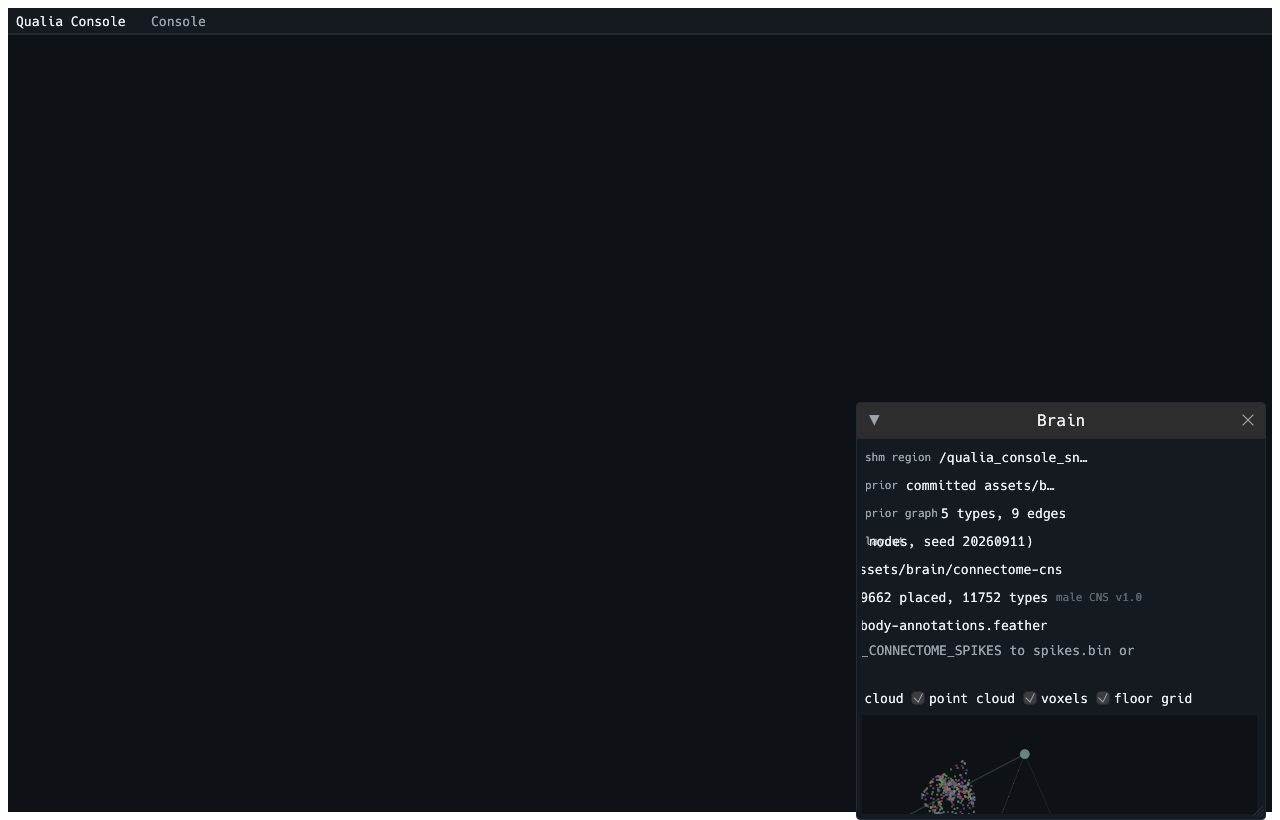
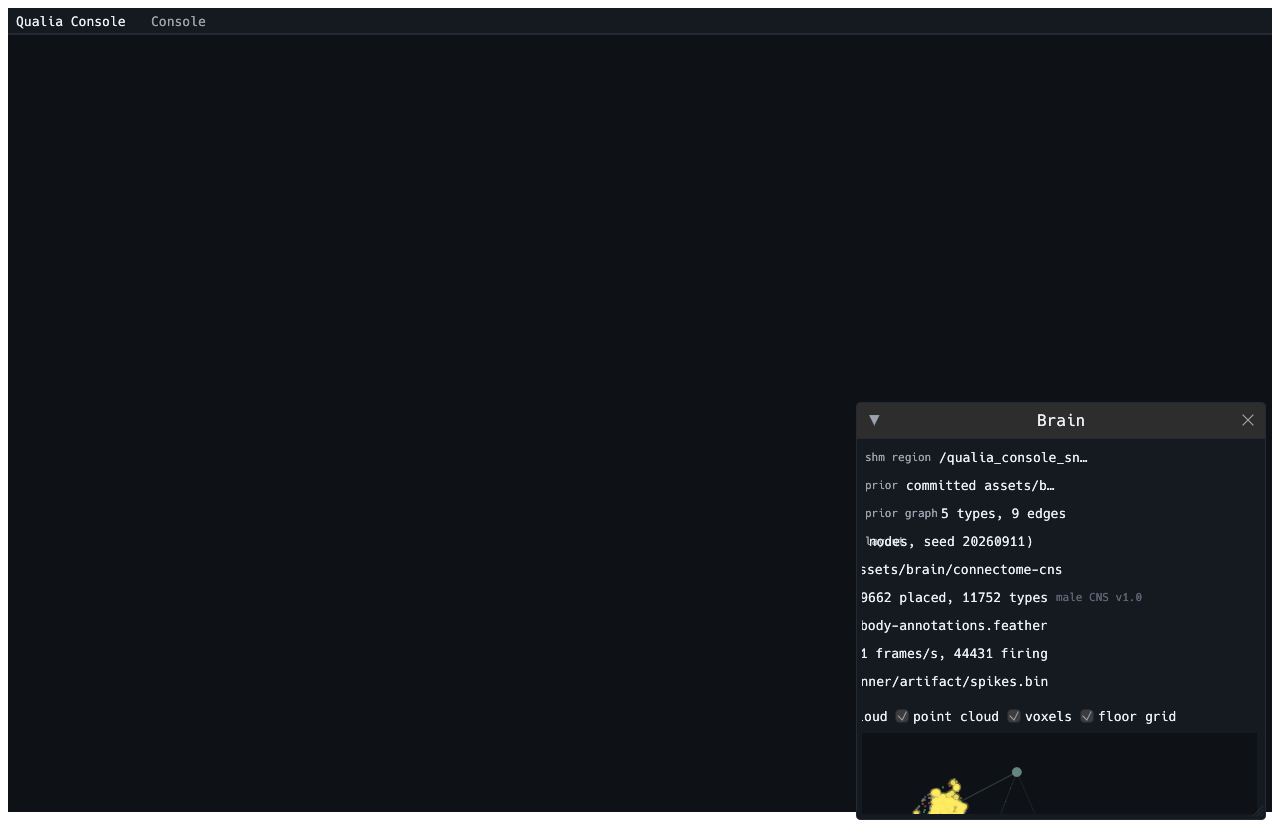
feat(console): draw the runner's real firing set on the cloud (#237)
The panel's firing layer now strided rather than takes the first ids: the frames
arrive sorted by node index, so a plain take highlighted one corner of the brain.
With the stride the layer drew 3325-3730 firing nodes of the tick's 19223-64135,
spread over the cloud, plus a halo so a spike reads as a spike.

Evidence refreshed with T55's real run (spikes.bin 40,199,848 B, 200 frames,
10,048,960 ids, the robot's camera through the leash's snapshot endpoint at
112.7 ticks/s): docs/evidence/T56/floating-brain/console-brain-panel.png shows
the panel with that stream loaded; console-brain-panel-no-stream.png keeps the
committed snapshot (what CI renders). The README carries the tick counts, the
drawn counts, the id range and the producer's caveat about the weak drive.

Also aligns qualia-connectome-view with the console in reading the importer's
manifest spelling, so both report the same source table.

Changed region(s): [[0.6562, 0.7622, 0.9375, 0.8841], [0.7188, 0.9451, 0.7812, 1.0], [0.7812, 0.9146, 0.8125, 0.9451]]

diff --git a/crates/connectome-view/src/lib.rs b/crates/connectome-view/src/lib.rs
@@ -24,7 +24,7 @@ use std::path::{Path, PathBuf};
 use std::time::{Duration, Instant};
 
 use qualia_connectome_stream::{
-    read_manifest, read_positions, resolve_positions_paths, verify_positions, Positions,
+    read_manifest_document, read_positions, resolve_positions_paths, verify_positions, Positions,
     PositionsVerification, SpikeReader, POSITIONS_MANIFEST_FILE,
 };
 use qualia_rerun_bridge::{
@@ -215,8 +215,8 @@ pub fn load_cloud(path: &Path) -> Result<LoadedCloud> {
     };
     let manifest_path = directory.join(POSITIONS_MANIFEST_FILE);
     let (source, coordinate_space) = if manifest_path.exists() {
-        match read_manifest(&manifest_path) {
-            Ok(manifest) => (manifest.source.file, manifest.coordinate_space),
+        match read_manifest_document(&manifest_path) {
+            Ok(document) => (manifest_source(&document), coordinate_space(&document)),
             Err(error) => {
                 eprintln!("warning: {manifest_path:?} did not read: {error}");
                 (String::new(), String::new())
@@ -260,6 +260,28 @@ pub fn load_cloud(path: &Path) -> Result<LoadedCloud> {
 /// Checks an artifact against the manifest beside it.
 pub fn verify(path: &Path) -> Result<PositionsVerification> {
     verify_positions(path).map_err(|error| ViewError::new("failed to verify the artifact", error))
+}
+
+/// One string out of a manifest document, by key path.
+fn json_str(document: &serde_json::Value, path: &[&str]) -> Option<String> {
+    let mut cursor = document;
+    for key in path {
+        cursor = cursor.get(*key)?;
+    }
+    cursor.as_str().map(str::to_string)
+}
+
+/// The annotation table the artifact came from, under either spelling the two
+/// importers use (`sources.body_annotations.file`, or `source.file`).
+fn manifest_source(document: &serde_json::Value) -> String {
+    json_str(document, &["sources", "body_annotations", "file"])
+        .or_else(|| json_str(document, &["source", "file"]))
+        .unwrap_or_default()
+}
+
+/// The units and frame the coordinates are in, when the manifest says.
+fn coordinate_space(document: &serde_json::Value) -> String {
+    json_str(document, &["coordinate_space"]).unwrap_or_default()
 }
 
 fn sha256_file(path: &Path) -> Result<String> {

diff --git a/apps/qualia-console/src/views/brain/scene.rs b/apps/qualia-console/src/views/brain/scene.rs
@@ -231,7 +231,11 @@ fn paint_connectome(
 
     counts.firing_total = frame.firing.len();
     let hot = firing_colour();
-    for node in frame.firing.iter().take(MAX_FIRING_DRAWN) {
+    // The ids arrive sorted, so a plain `take` would draw the lowest node
+    // indices — one corner of the brain. Stride instead, so the highlighted set
+    // is spread over the whole cloud, and report what was dropped.
+    let stride = frame.firing.len().div_ceil(MAX_FIRING_DRAWN).max(1);
+    for node in frame.firing.iter().step_by(stride) {
         let Some(point) = cloud.point_of(*node) else {
             continue;
         };
@@ -239,11 +243,9 @@ fn paint_connectome(
         if !rect.contains(position) {
             continue;
         }
-        painter.circle_filled(
-            position,
-            2.6,
-            hot.gamma_multiply(Projector::depth_alpha(depth)),
-        );
+        let alpha = Projector::depth_alpha(depth);
+        painter.circle_filled(position, 4.0, hot.gamma_multiply(alpha * 0.35));
+        painter.circle_filled(position, 2.4, hot.gamma_multiply(alpha));
         counts.firing_drawn += 1;
     }
 }

diff --git a/docs/evidence/T56/floating-brain/README.md b/docs/evidence/T56/floating-brain/README.md
@@ -14,46 +14,60 @@ involved.
 
 | file | what it shows |
 | --- | --- |
-| `console-brain-panel.png` | the console's Brain panel, rendered offscreen, with the committed artifact loaded |
+| `console-brain-panel.png` | the Brain panel with the **real runner stream** loaded: the cloud and the tick's firing set |
+| `console-brain-panel-no-stream.png` | the same panel with no stream configured — the committed `brain_fresh.png`, byte-identical, kept because it is what CI renders |
 
-The figure is byte-identical to the committed snapshot
-`apps/qualia-console/tests/snapshots/brain_fresh.png`, which the console's own test renders — so the
-figure cannot drift from the panel: the test fails if it does.
+Both are rendered by `apps/qualia-console/tests/snapshots/brain_fresh`, so neither can drift from the
+panel: the test fails if it does.
 
 ```powershell
+# with the runner's stream (writes the mismatching frame as brain_fresh.new.png):
+QUALIA_CONNECTOME_SPIKES=<artifact>/spikes.bin `
+  cargo test -p qualia-console --test snapshots -j 2 -- brain_fresh
+copy apps/qualia-console/tests/snapshots/brain_fresh.new.png docs/evidence/T56/floating-brain/console-brain-panel.png
+
+# with no env at all — the committed snapshot, and the in-tree artifact:
 cargo test -p qualia-console --test snapshots -j 2 -- brain_fresh
-copy apps/qualia-console/tests/snapshots/brain_fresh.png docs/evidence/T56/floating-brain/console-brain-panel.png
+copy apps/qualia-console/tests/snapshots/brain_fresh.png docs/evidence/T56/floating-brain/console-brain-panel-no-stream.png
 ```
 
-The panel reads, in its own words (the left column is truncated in the render):
+The panel in the firing figure reads: the artifact `committed assets/brain/connectome-cns`,
+`166700 nodes, 139662 placed, 11752 types`, source `body-annotations-male-cns-v1.0-minconf-0.5.feather`,
+the stream's tick and its firing count, and `cloud draw` — what the layer drew. On the frames this
+figure was taken from the layer drew **9,976 of the 139,662 placed points and 3,325–3,730 of the tick's
+19,223–64,135 firing nodes** (the cloud is decimated to 10,000 and the firing set strided to 4,096, and
+the panel reports both, like every other layer in that scene).
 
-- `cloud artifact` — `committed assets/brain/connectome-cns`;
-- `cloud counts` — `166700 nodes, 139662 placed, 11752 types  (male CNS v1.0)`;
-- `cloud source` — `body-annotations-male-cns-v1.0-minconf-0.5.feather`;
-- `spike stream` — the **unset** arm, because the runner's stream is not on disk yet (below);
-- `cloud draw` — how many of the placed points, and of the tick's firing set, the layer drew.
+## The stream this figure shows
 
-The 3D canvas draws the cloud decimated to at most 10,000 points (the layer reports what it dropped,
-like every other layer in that scene) and draws the tick's firing nodes on top, bright and larger.
+`spikes.bin` — 40,199,848 B, sha256
[1 lines of base64/hex data omitted]
+`qualia-connectome-stream`: magic `QLSP`, u16 version, u16 reserved (8 bytes), then frames
+`tick u64 | t_ns u64 | count u32 | ids u32[]`.
+
+| | |
+| --- | --- |
+| frames | 200 (ticks 0..199), 10,048,960 firing ids in total |
+| ids | CSR node indices, `0..166,699` — the same row order as `positions.bin`, so an id indexes a row directly |
+| first non-empty tick | tick 3 fires 19,223; tick 4 58,109; tick 5 44,431; tick 6 36,480 (ticks 0–2 fire nothing: the network starts at rest) |
+| driven by | the robot's own camera, through the leash's JPEG snapshot endpoint (`http://192.168.55.1:8000/camera/snapshot`), one snapshot per tick, host GPU, 112.7 ticks/s |
+| read back by this repo | `qualia-connectome-view view --positions assets/brain/connectome-cns --spikes spikes.bin --max-ticks 5` → 5 ticks, 77,332 firing points, 2,533,686 points/s logged, positions sha256 `016a285b…afa6e` |
+
+**Caveat the producer gave, recorded here:** the camera scene was nearly uniform (luminance
+0.4613–0.4679), so the drive is weak and the network's recurrent dynamics dominate; a run on the
+Orin's own rate may replace the file at the same path, and if it differs we will say so.
 
 ## The artifact
 
 Committed at `assets/brain/connectome-cns/` — `positions.bin`, `types.txt`, `nodes.txt`, the
-importer's `manifest.json` and `attribution.json`, with the digests in the README beside them. Written
-by the importer in `crates/connectome-cns` (T55 / #236) from the public release; `weights.bin`
-(180,414,198 B) stays off-tree by digest. `qualia-connectome-view verify --positions
-assets/brain/connectome-cns` re-reads this directory and checks every section digest against the
-manifest:
+importer's `manifest.json` and `attribution.json`, with the digests in the README beside them.
+`weights.bin` (180,414,198 B) stays off-tree by digest. `qualia-connectome-view verify --positions
+assets/brain/connectome-cns` re-reads it and checks every section digest:
 
 ```text
 schema=qualia.connectome-cns.v1 manifest=present nodes=166700 placed=139662 unplaced=27038 cell_types=11752
 positions.bin: 3334012 bytes sha256=016a285b01756f16b44219fa84fe2a6d83f6276c22e01f24f5d73a17c41afa6e
 types.txt: 92587 bytes sha256=545ec649b861b3cdeb41f597471b0061494007db9f25c592f2a43bbcf317024c
-section id: sha256=fe2d710121425c82e242536b3b438c6ad62962cf96ec7d514a444639954a6e06
-section x: sha256=7d73170c5e99792896308b7114e064196300e69a082c5289e519addac7ace7d4
-section y: sha256=23422ba1d93c20c9e8c3453e28a8da013eae7f709f4d5fef69fd44aca47455de
-section z: sha256=6f1d498e7ea3d1626df5faa2c527ee030db5500107dcf888d983fae19ac47d61
-section cell_type: sha256=4af34959d1fdefc38191b8c22a06594dac3a6133a859ce5aa01d7dfb0e6d0a33
 sections checked against the manifest: 5/5
 source table: 211577 bodies, 139662 positioned, 11752 type labels
 artifact: OK
@@ -70,13 +84,10 @@ are left out rather than placed at a made-up coordinate.
 
 ## What is not established here
 
-- **No real firing set is shown yet.** `spikes.bin` is T55's runner output, driven by the leash's
-  camera frames, and had not landed when this figure was taken — so the `spike stream` line is the
-  unset arm, and this figure shows the cloud only. Pointing `QUALIA_CONNECTOME_SPIKES` at the recorded
-  file and re-running the command above is the whole of the remaining step; the highlight and the
-  per-tick framing are already exercised by `the_spike_stream_round_trips_a_recorded_run` and by the
-  Rerun recording. **No synthetic stream is presented as evidence anywhere in this directory.**
 - **The live `tcp://host:port` path is unexercised.** The recorded file is the path that matters; the
-  socket framing is the same bytes (checked over a local socket, not over the USB link to the board).
+  socket framing carries the same bytes but has only been checked over a local socket, never over the
+  USB link to the board.
+- The camera drive was weak (near-uniform scene, above), so this is the connectome's own dynamics
+  under a weak visual drive, not a claim about what the fly does with a real visual scene.
 - This is a visualization of the network's activity, not evidence about the fly's behaviour. Nothing
   here claims "the fly is in there" — the same caveat the connectomics community put on the Eon video.
